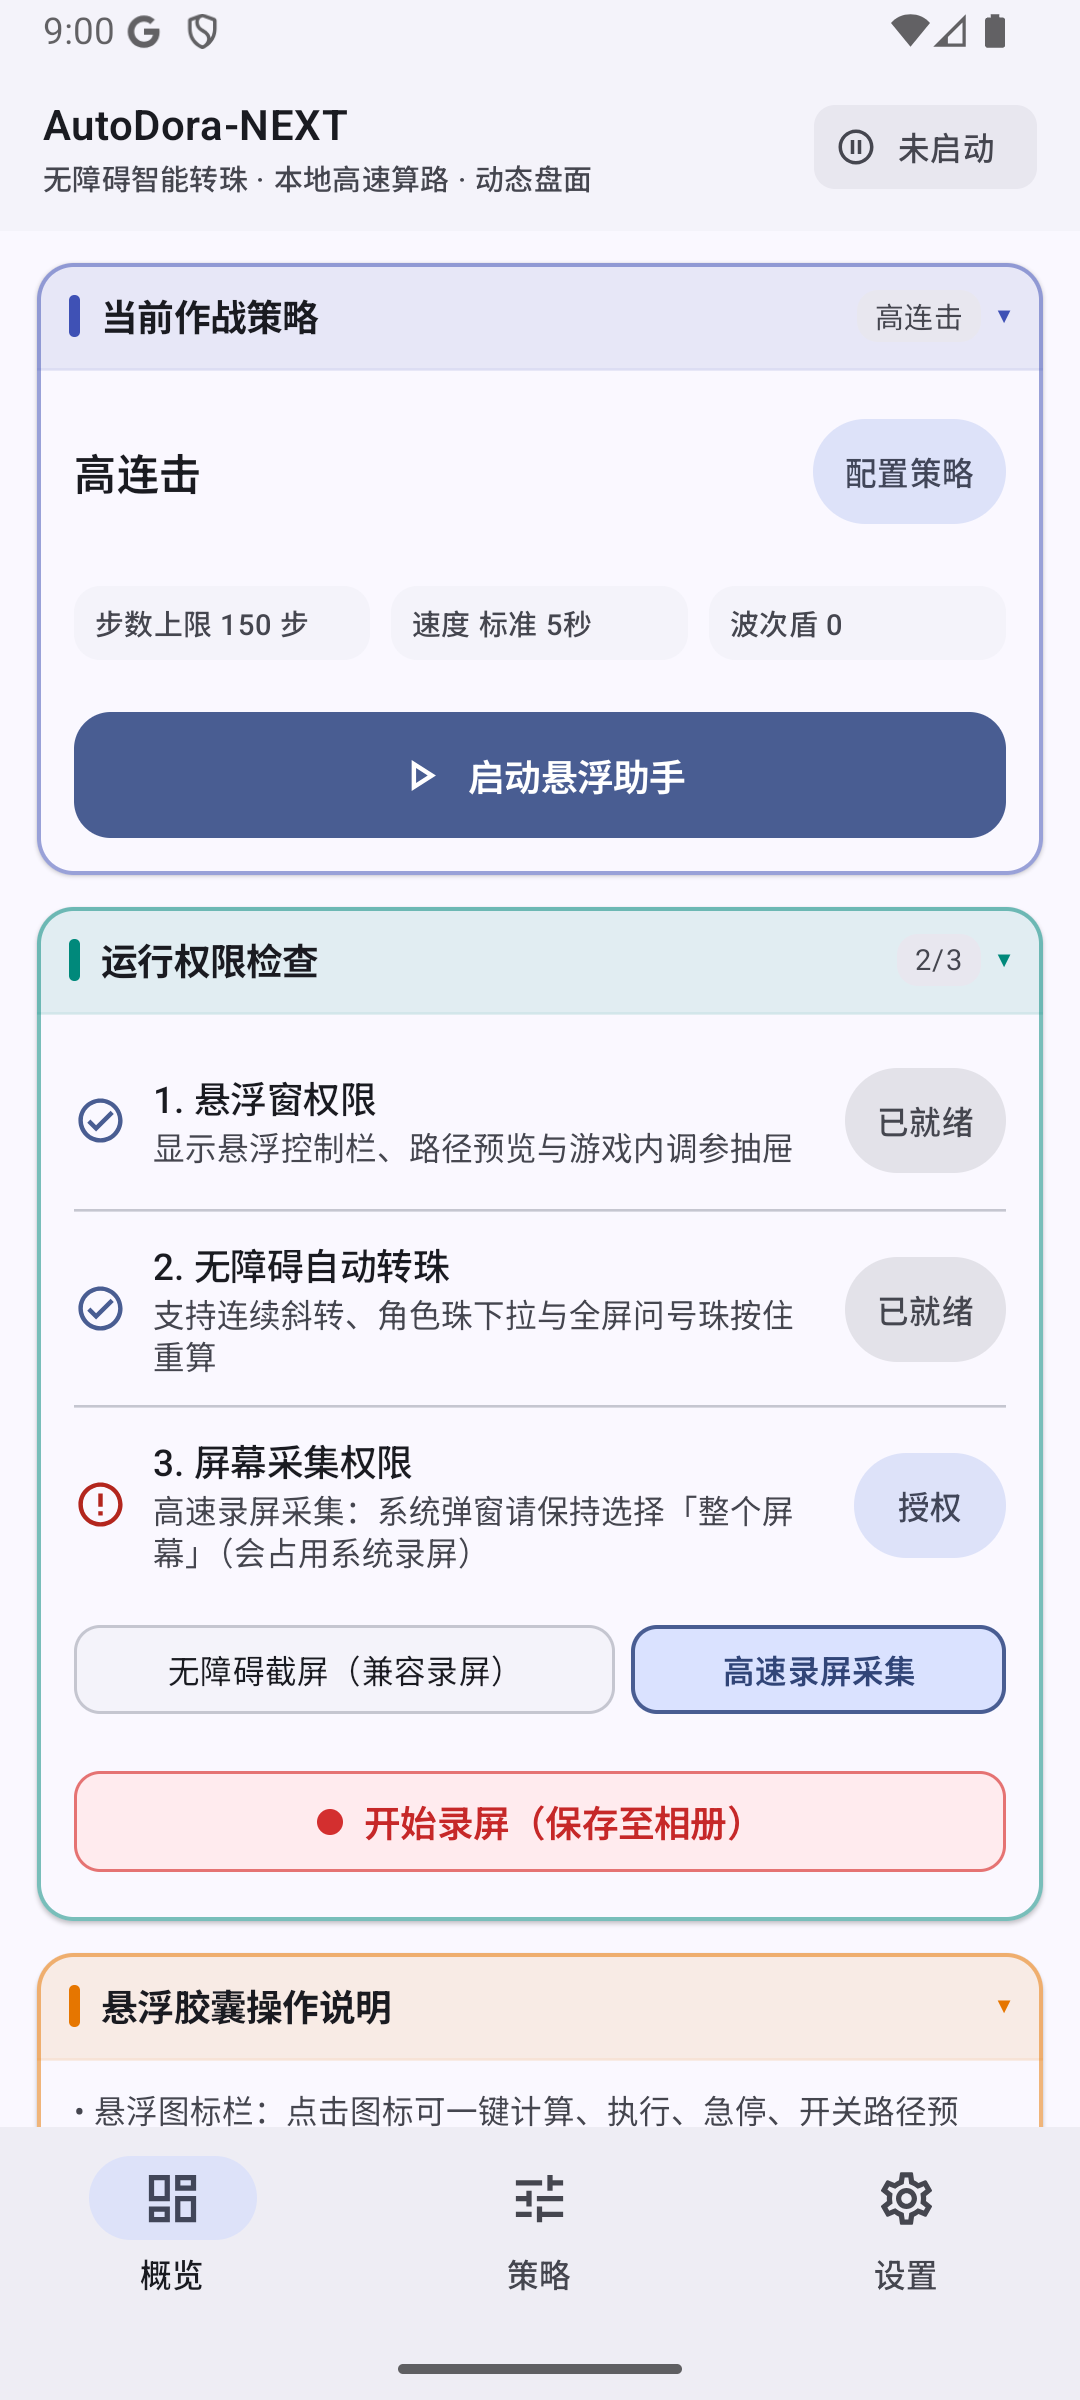
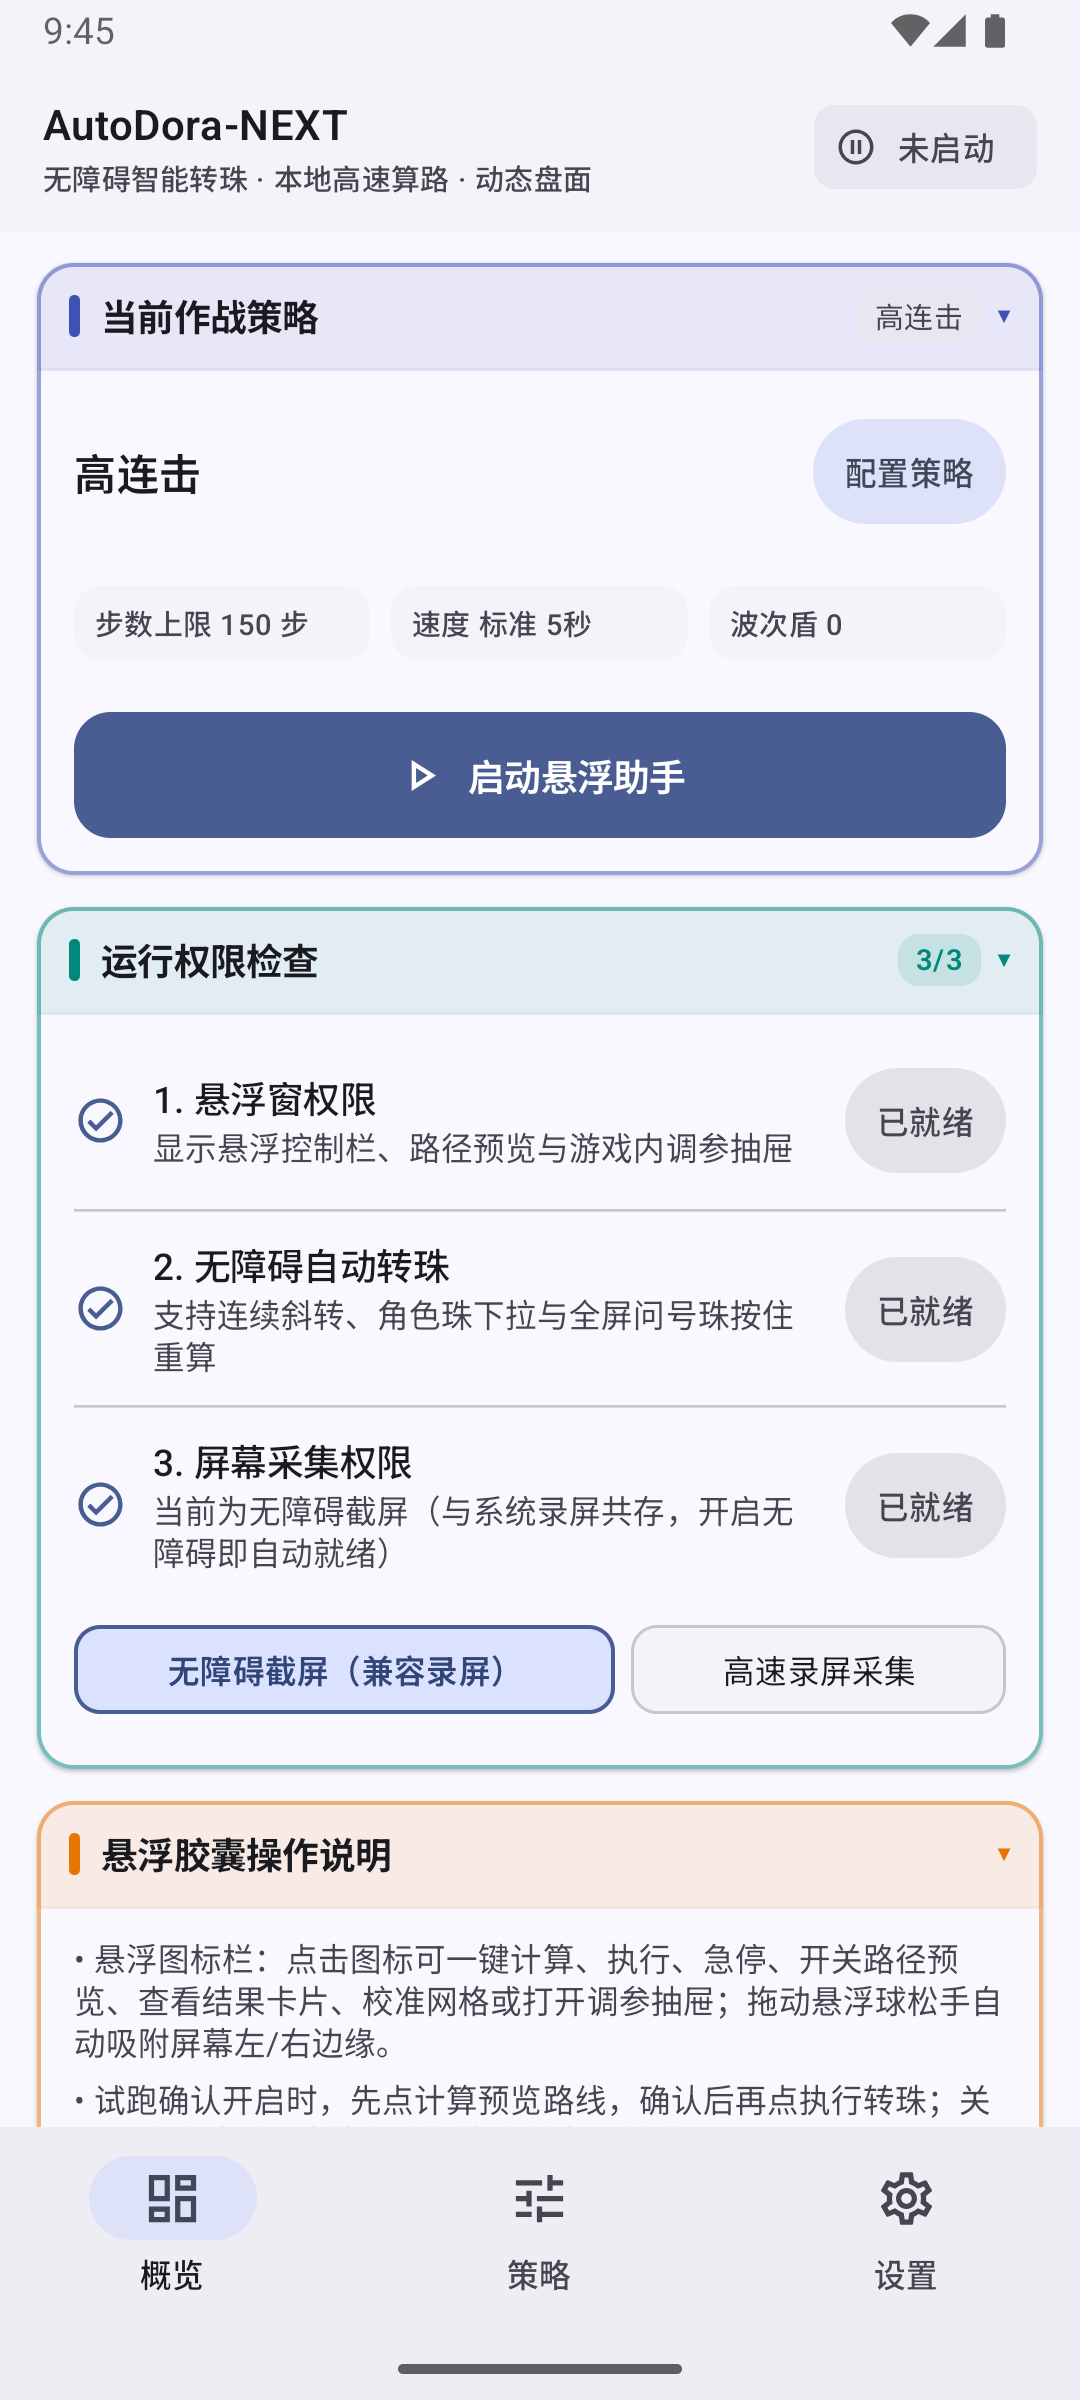
fix(overlay): guard Heart attribute & add dark outline on Starting Buoy badge; refresh emulator screenshots

diff --git a/android/app/src/main/kotlin/com/autodora/next/overlay/PathOverlayView.kt b/android/app/src/main/kotlin/com/autodora/next/overlay/PathOverlayView.kt
@@ -615,16 +615,24 @@ class PathOverlayView(context: Context) : View(context) {
             lineTo(ax - r, ay)
             close()
         }
-        val fillCol = if (element.isMatchable) elementColor(element) else Color.rgb(142, 36, 170)
-        fillPaint.color = Color.argb(225, Color.red(fillCol), Color.green(fillCol), Color.blue(fillCol))
+        val hasPlayableAttr = element.isMatchable && element != Element.HEART
+        val fillCol = if (hasPlayableAttr) elementColor(element) else Color.rgb(142, 36, 170)
+        fillPaint.color = Color.argb(230, Color.red(fillCol), Color.green(fillCol), Color.blue(fillCol))
         canvas.drawPath(diamond, fillPaint)
         gridBorderPaint.color = Color.rgb(255, 238, 88)
         gridBorderPaint.strokeWidth = 5f
         canvas.drawPath(diamond, gridBorderPaint)
-        textPaint.color = Color.WHITE
+        val lbl = if (hasPlayableAttr) "浮${elementShortZh(element)}" else "浮"
+        val textY = ay + r * 0.25f
         textPaint.textSize = r * 0.72f
-        val lbl = if (element.isMatchable) "浮${elementShortZh(element)}" else "浮"
-        canvas.drawText(lbl, ax, ay + r * 0.25f, textPaint)
+        textPaint.style = Paint.Style.STROKE
+        textPaint.strokeWidth = 5f
+        textPaint.strokeJoin = Paint.Join.ROUND
+        textPaint.color = Color.argb(225, 15, 23, 42)
+        canvas.drawText(lbl, ax, textY, textPaint)
+        textPaint.style = Paint.Style.FILL
+        textPaint.color = Color.WHITE
+        canvas.drawText(lbl, ax, textY, textPaint)
     }
 
     /**

diff --git a/android/app/src/main/kotlin/com/autodora/next/overlay/OverlayControllerService.kt b/android/app/src/main/kotlin/com/autodora/next/overlay/OverlayControllerService.kt
@@ -2653,8 +2653,8 @@ class OverlayControllerService : Service() {
             if (stormCnt > 0) append(" · 🌀").append(stormCnt)
             if (sol.usedCharacterOrb) {
                 val buoyEl = activeBoard?.startingBuoyElement?.takeIf {
-                    activeBoard.startingBuoyCol == sol.characterOrbCol && it.isMatchable
-                } ?: lastPortraitElements.getOrNull(sol.characterOrbCol)?.takeIf { it.isMatchable }
+                    activeBoard.startingBuoyCol == sol.characterOrbCol && it.isMatchable && it != Element.HEART
+                } ?: lastPortraitElements.getOrNull(sol.characterOrbCol)?.takeIf { it.isMatchable && it != Element.HEART }
                 val elTxt = if (buoyEl != null) LocaleHelper.elementLabel(lctx, buoyEl.code) else ""
                 append(" · ⚓").append(sol.characterOrbCol + 1).append(elTxt)
             }

diff --git a/android/app/src/test/kotlin/com/autodora/next/overlay/BoardEditorBrushTest.kt b/android/app/src/test/kotlin/com/autodora/next/overlay/BoardEditorBrushTest.kt
@@ -134,5 +134,16 @@ class BoardEditorBrushTest {
         b = OverlayBoardEditorController.applyBrushToBoard(b, startVortex, 1, 1)
         assertEquals(-1, b.startingBuoyCol)
         assertEquals(1, b.tileFlags.count { (it and TileFlagBits.START_ALLOWED) != 0 })
+
+        // Painting Starting Buoy on a Heart-only column without portrait detection never invents an impossible Heart portrait!
+        val heartBoard = BoardState(
+            cols = 6,
+            rows = 5,
+            cells = List(30) { CellState(Element.HEART) },
+            tileFlags = List(30) { TileFlagBits.NONE }
+        )
+        val heartBuoy = OverlayBoardEditorController.applyBrushToBoard(heartBoard, BoardBrush.SetStartingBuoy, 0, 5)
+        assertEquals(5, heartBuoy.startingBuoyCol)
+        assertEquals(Element.UNKNOWN, heartBuoy.startingBuoyElement)
     }
 }

diff --git a/android/app/src/main/kotlin/com/autodora/next/overlay/OverlayBoardEditor.kt b/android/app/src/main/kotlin/com/autodora/next/overlay/OverlayBoardEditor.kt
@@ -734,9 +734,9 @@ class OverlayBoardEditorController(
                         startingBuoyElement = Element.UNKNOWN
                     )
                 }
-                val detectedEl = portraitElements.getOrNull(col)?.takeIf { it.isMatchable }
-                    ?: board.cellAt(0, col).element.takeIf { it.isMatchable }
-                    ?: Element.FIRE
+                val detectedEl = portraitElements.getOrNull(col)?.takeIf { it.isMatchable && it != Element.HEART }
+                    ?: board.cellAt(0, col).element.takeIf { it.isMatchable && it != Element.HEART }
+                    ?: Element.UNKNOWN
                 return board.copy(
                     tileFlags = newFlags,
                     startingBuoyCol = col,
